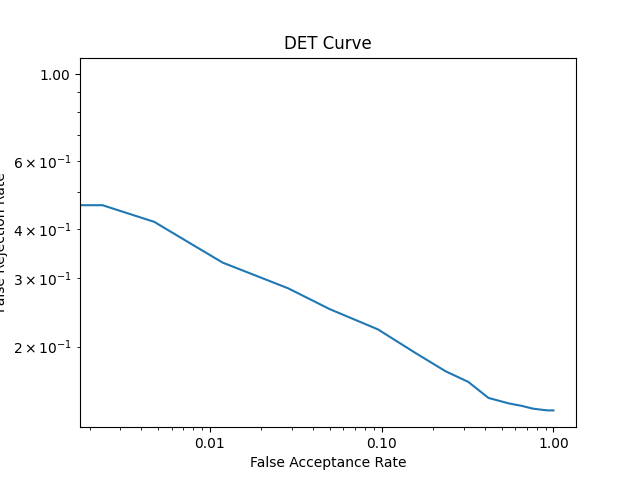
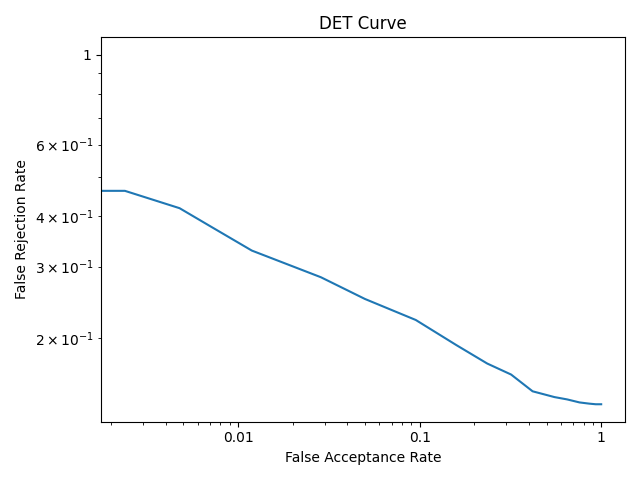
added .gitignore out of necessity

diff --git a/graphs.py b/graphs.py
@@ -3,7 +3,7 @@ import json
 import os
 
 import matplotlib.pyplot as plt
-import matplotlib.ticker as ticker
+from matplotlib.ticker import FuncFormatter
 
 
 GRAPHS_PATH = "graphs"
@@ -34,13 +34,11 @@ def roc(metrics):
         os.mkdir(GRAPHS_PATH)
     path = os.path.join(GRAPHS_PATH, ROC_GRAPH_NAME)
     plt.savefig(path)
-    plt.show()
 
 
 def det(metrics):
     DET_GRAPH_NAME = "det.png"
-    GRAPHS_PATH = "graphs"
-
+    
     far_list = []
     frr_list = []
 
@@ -54,16 +52,23 @@ def det(metrics):
     plt.xscale('log')
     plt.yscale('log')
 
+
+    plt.gca().xaxis.set_major_formatter(FuncFormatter(lambda x, _: '{:g}'.format(x)))
+    plt.gca().yaxis.set_major_formatter(FuncFormatter(lambda y, _: '{:g}'.format(y)))
+    
     plt.xlabel('False Acceptance Rate')
     plt.ylabel('False Rejection Rate')
     plt.title('DET Curve')
+
+    # Adjust layout to prevent label cropping
+    plt.tight_layout()
 
     if not os.path.exists(GRAPHS_PATH):
         os.mkdir(GRAPHS_PATH)
     path = os.path.join(GRAPHS_PATH, DET_GRAPH_NAME)
     
     plt.savefig(path)
-    plt.show()
+
     
 
 def eer(metrics):
@@ -76,7 +81,7 @@ def eer(metrics):
         far_list.append(metrics[threshold]["FAR"])
         frr_list.append(metrics[threshold]["FRR"])
 
-
+    
     plt.figure()
     plt.plot(frr_list, label="FRR")
     plt.plot(far_list, label="FAR")
@@ -89,7 +94,6 @@ def eer(metrics):
     path = os.path.join(GRAPHS_PATH, EER_GRAPH_NAME)
     
     plt.savefig(path)
-    plt.show()
 
 def generate_graphs():
     metrics = load_evaluation_metrics()

diff --git a/metrics_computation.py b/metrics_computation.py
@@ -65,7 +65,7 @@ def all_against_all(matrix, gallery_names, genuine_names, impostor_names):
     p_g = len(genuine_names)
     p_n = len(impostor_names)
 
-    thresholds = [round(threshold, 3) for threshold in np.arange(consts.MIN_THRESHOLD, consts.MAX_THRESHOLD, consts.THRESHOLD_STEP)] 
+    thresholds = [round(threshold, consts.ROUNDING_NUMBER) for threshold in np.arange(consts.MIN_THRESHOLD, consts.MAX_THRESHOLD, consts.THRESHOLD_STEP)] 
 
     for threshold in thresholds:
         metrics[threshold] = {
@@ -95,9 +95,9 @@ def all_against_all(matrix, gallery_names, genuine_names, impostor_names):
                 else:
                     metrics[threshold]["GR"] += 1
 
-        metrics[threshold]["DIR"] = round(metrics[threshold]["DI"]/p_g, 2)
-        metrics[threshold]["FRR"] = round(1 - metrics[threshold]["DIR"], 2)
-        metrics[threshold]["FAR"] = round(metrics[threshold]["FA"]/p_n, 2)
+        metrics[threshold]["DIR"] = round(metrics[threshold]["DI"]/p_g, consts.ROUNDING_NUMBER)
+        metrics[threshold]["FRR"] = round(1 - metrics[threshold]["DIR"], consts.ROUNDING_NUMBER)
+        metrics[threshold]["FAR"] = round(metrics[threshold]["FA"]/p_n, consts.ROUNDING_NUMBER)
         metrics[threshold]["ERR"] = metrics[threshold]["FAR"] == metrics[threshold]["FRR"]
 
         #print(f"\t{threshold} -> {metrics[threshold]}")        

diff --git a/CASIA_Dataset_generator.py b/CASIA_Dataset_generator.py
@@ -48,6 +48,10 @@ while cur_id < num_id:
             # If the face is not recognized it's a bad photo, discard it!
             if len(img_encodings) < 1:
                 os.remove(img_name)
+            
+            # If there are multiple faces in the image, bad photo! Discard it!
+            if len(img_encodings) > 1:
+                os.remove(img_name)
         else: break
 
 # Removes the directories that do not have at least 6 faces
@@ -59,6 +63,6 @@ for dir in os.listdir(dataset):
         shutil.rmtree(fullpath)
         counter += 1
 
-print(f"{counter} identities have been removed because they didn't have enough images")
+print(f"{counter} identities have been removed because they didn't have enough photos")
         
         

diff --git a/consts.py b/consts.py
@@ -1,3 +1,6 @@
+# Rounding number
+ROUNDING_NUMBER = 7
+
 # Number of TOTAL IDENTITIES
 TOTAL_IDENTITIES = 840
 
@@ -34,4 +37,6 @@ THRESHOLD_STEP = 0.01
 
 # Name of the evaluation metric
 EVALUATION_METRICS_NAME = "evaluation_metrics.json"
+
+
 
